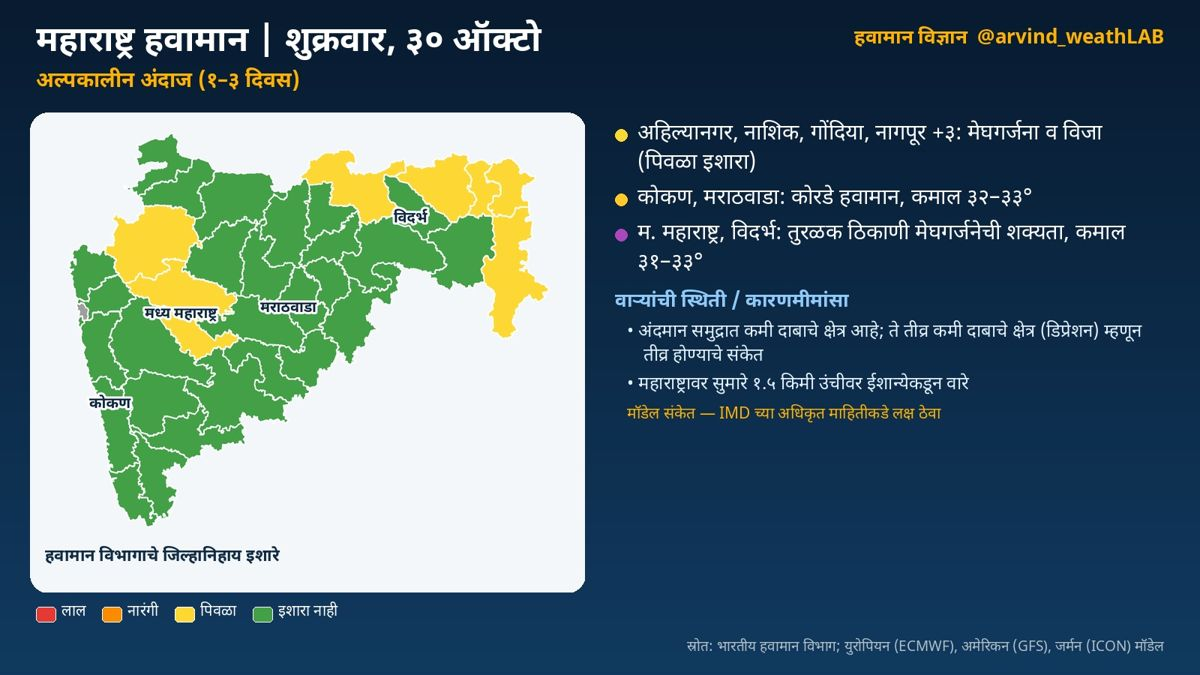
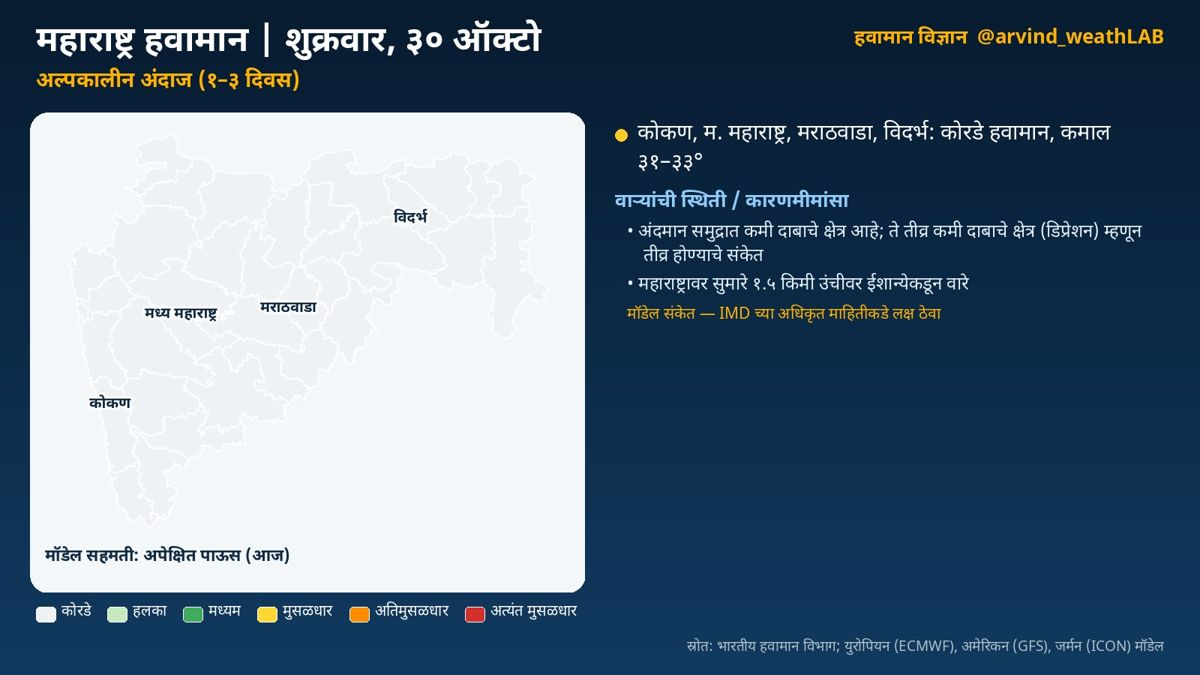
Alert 2026-10-30 (hawaman-vidnyan)

diff --git a/docs/alerts/2026-10-30-hawaman/index.html b/docs/alerts/2026-10-30-hawaman/index.html
@@ -12,11 +12,11 @@
     })();
   </script>
   <title data-mr="महाराष्ट्र हवामान | शुक्रवार, ३० ऑक्टो — हवामान इशारा">महाराष्ट्र हवामान | शुक्रवार, ३० ऑक्टो — Weather alert</title>
-  <meta name="description" content="Yellow alert: महाराष्ट्र हवामान | शुक्रवार, ३० ऑक्टो (30 October 2026)">
+  <meta name="description" content="Information analysis: महाराष्ट्र हवामान | शुक्रवार, ३० ऑक्टो (30 October 2026)">
   <link rel="preconnect" href="https://fonts.googleapis.com">
   <link rel="preconnect" href="https://fonts.gstatic.com" crossorigin>
   <link href="https://fonts.googleapis.com/css2?family=Mukta:wght@400;500;600;700&family=Noto+Serif+Devanagari:wght@600;700&display=swap" rel="stylesheet">
-  <link rel="stylesheet" href="../../static/css/style.css?v=7f417a43">
+  <link rel="stylesheet" href="../../static/css/style.css?v=53f47638">
 </head>
 <body>
   <header class="site-header">
@@ -45,12 +45,12 @@
   <main class="wrap main">
 <article class="article">
   <p class="muted"><a href="../../alerts/index.html"><span class="l-en">← All alerts</span><span class="l-mr" lang="mr">← सर्व इशारे</span></a></p>
-  <div class="alert-banner level-yellow">
-    <span class="badge badge-yellow"><span class="l-en">Yellow alert · Be updated</span><span class="l-mr" lang="mr">पिवळा इशारा · अद्ययावत राहा</span></span>
+  <div class="alert-banner level-info">
+    <span class="badge badge-info"><span class="l-en">Information · analysis</span><span class="l-mr" lang="mr">माहितीपर विश्लेषण</span></span>
     <h1>महाराष्ट्र हवामान | शुक्रवार, ३० ऑक्टो</h1>
     <dl class="alert-facts">
       <div><dt><span class="l-en">Date</span><span class="l-mr" lang="mr">दिनांक</span></dt><dd><time datetime="2026-10-30"><span class="l-en">Friday, 30 October 2026</span><span class="l-mr" lang="mr">शुक्रवार, ३० ऑक्टोबर २०२६</span></time></dd></div>
-<div><dt><span class="l-en">Valid</span><span class="l-mr" lang="mr">वैधता</span></dt><dd><span class="l-en">30 October 2026 — Short-range analysis (1–3 days)</span><span class="l-mr" lang="mr">३० ऑक्टोबर २०२६ — अल्पकालीन विश्लेषण (१–३ दिवस)</span></dd></div><div><dt><span class="l-en">Districts / regions</span><span class="l-mr" lang="mr">जिल्हे/भाग</span></dt><dd><span class="l-en">Ahilyanagar</span><span class="l-mr" lang="mr">अहिल्यानगर</span>, <span class="l-en">Nashik</span><span class="l-mr" lang="mr">नाशिक</span>, <span class="l-en">Gondia</span><span class="l-mr" lang="mr">गोंदिया</span>, <span class="l-en">Nagpur</span><span class="l-mr" lang="mr">नागपूर</span>, <span class="l-en">Amravati</span><span class="l-mr" lang="mr">अमरावती</span>, <span class="l-en">Bhandara</span><span class="l-mr" lang="mr">भंडारा</span>, <span class="l-en">Gadchiroli</span><span class="l-mr" lang="mr">गडचिरोली</span></dd></div><div><dt><span class="l-en">Hazards</span><span class="l-mr" lang="mr">धोके</span></dt><dd><span class="l-en">Thunderstorm &amp; lightning</span><span class="l-mr" lang="mr">मेघगर्जना व विजा</span></dd></div>    </dl>
+<div><dt><span class="l-en">Valid</span><span class="l-mr" lang="mr">वैधता</span></dt><dd><span class="l-en">30 October 2026 — Short-range analysis (1–3 days)</span><span class="l-mr" lang="mr">३० ऑक्टोबर २०२६ — अल्पकालीन विश्लेषण (१–३ दिवस)</span></dd></div><div><dt><span class="l-en">Districts / regions</span><span class="l-mr" lang="mr">जिल्हे/भाग</span></dt><dd><span class="l-en">Konkan</span><span class="l-mr" lang="mr">कोकण</span>, <span class="l-en">Madhya Maharashtra</span><span class="l-mr" lang="mr">मध्य महाराष्ट्र</span>, <span class="l-en">Marathwada</span><span class="l-mr" lang="mr">मराठवाडा</span>, <span class="l-en">Vidarbha</span><span class="l-mr" lang="mr">विदर्भ</span></dd></div>    </dl>
   </div>
   <section class="reel">
     <h2><span class="l-en">Today&#39;s visual analysis</span><span class="l-mr" lang="mr">आजचे दृश्य विश्लेषण</span> <span class="muted"><span class="l-en">(reel slides)</span><span class="l-mr" lang="mr">(रील स्लाइड्स)</span></span></h2>
@@ -100,10 +100,12 @@
     </div>
 </details>  </section>
   <p class="lang-note l-en">This page is written in Marathi.</p><div class="prose" lang="mr"><p><strong>अल्पकालीन विश्लेषण (१–३ दिवस)</strong> · वैयक्तिक विश्लेषणावर आधारित</p>
-<p>🟡 अहिल्यानगर, नाशिक, गोंदिया, नागपूर +३: मेघगर्जना व विजा<br />
-☀ कोकण, मराठवाडा: कोरडे हवामान<br />
-⛈ म. महाराष्ट्र, विदर्भ: तुरळक ठिकाणी मेघगर्जनेची शक्यता<br />
-🌀 अंदमान समुद्रात कमी दाबाचे क्षेत्र आहे</p>
+<p>☀ कोकण: कोरडे हवामान<br />
+☀ म. महाराष्ट्र: कोरडे हवामान<br />
+☀ मराठवाडा: कोरडे हवामान<br />
+☀ विदर्भ: कोरडे हवामान<br />
+🌀 अंदमान समुद्रात कमी दाबाचे क्षेत्र आहे<br />
+🛰 उपग्रह: राज्यावर आकाश बहुतांश निरभ्र</p>
 <p><img src="../../static/images/alerts/2026-10-30/1_card.jpg" alt="अल्पकालीन विश्लेषण (१–३ दिवस)" /></p>
 <h3>हवामानामागचे कारण</h3>
 <p>🌀 वाऱ्यांची स्थिती व कारणमीमांसा:<br />
@@ -111,19 +113,15 @@
 <p>• पूर्व-मध्य अरबी समुद्रात चक्राकार वाऱ्यांची स्थिती आहे; ते कमी दाबाचे क्षेत्र म्हणून तीव्र होण्याचे संकेत; प्रणाली आग्नेयेकडे (आग्नेय अरबी समुद्र) सरकण्याची शक्यता<br />
 • मध्य भारतावर कमी दाबाचे क्षेत्र आहे<br />
 • महाराष्ट्रावर सुमारे १.५ किमी उंचीवर ईशान्येकडून वारे</p>
-<p>🏙 आज शहरांचे कमाल/किमान तापमान (हवामान विभाग):<br />
-मुंबई ३३/२०, रत्नागिरी ३३/२३, पुणे ३५/२२, नाशिक ३३/१९, कोल्हापूर ३२/२०, छ. ३३/१९, नागपूर ३०/२२</p>
 <p>📌 निरीक्षणे:<br />
-🌡 काल सर्वाधिक: मुंबई (कुलाबा) ३६.१°<br />
-❄ नीचांकी: महाबळेश्वर १७.२°<br />
-🛰 उपग्रह: राज्यावर आकाश बहुतांश निरभ्र (कोकण १%, मध्य महाराष्ट्र १%, मराठवाडा ०%, विदर्भ १% ढगाच्छादन)</p>
+🛰 उपग्रह: राज्यावर आकाश बहुतांश निरभ्र (कोकण ०%, मध्य महाराष्ट्र १%, मराठवाडा ०%, विदर्भ ४% ढगाच्छादन)</p>
 <p>ℹ स्रोत: भारतीय हवामान विभाग; युरोपियन (ECMWF), अमेरिकन (GFS), जर्मन (ICON) मॉडेल<br />
 ⚠ हे मॉडेल-आधारित विश्लेषण आहे. अधिकृत इशाऱ्यांसाठी भारतीय हवामान विभाग (IMD) व स्थानिक प्रशासनाच्या सूचना पाहा.</p>
 <p><img src="../../static/images/alerts/2026-10-30/2_circulation_chart.jpg" alt="वाऱ्यांची स्थिती व दाब प्रणाली" /></p>
 <p><img src="../../static/images/alerts/2026-10-30/3_satellite_insat.jpg" alt="वाऱ्यांची स्थिती व दाब प्रणाली" /></p>
 <h2>सविस्तर हवामान विश्लेषण</h2>
 <h3>अल्पकालीन विश्लेषण (१–३ दिवस)</h3>
-<p>नमस्कार! आज शुक्रवार, ३० ऑक्टोबर. पाहूया महाराष्ट्राचे हवामान विश्लेषण. भारतीय हवामान विभागाने अहिल्यानगर, नाशिक, गोंदिया, नागपूर, अमरावती, भंडारा, गडचिरोली जिल्ह्यांसाठी मेघगर्जना व विजा संदर्भात पिवळा इशारा दिला आहे. कोकण: कोरडे हवामान. कमाल तापमान सुमारे ३३ आणि किमान २२ अंश सेल्सिअस. मध्य महाराष्ट्र: तुरळक ठिकाणी मेघगर्जनेची शक्यता. कमाल तापमान सुमारे ३३ आणि किमान २१ अंश सेल्सिअस. मराठवाडा: कोरडे हवामान. कमाल तापमान सुमारे ३२ आणि किमान २० अंश सेल्सिअस. विदर्भ: तुरळक ठिकाणी मेघगर्जनेची शक्यता. कमाल तापमान सुमारे ३१ आणि किमान २१ अंश सेल्सिअस. काल राज्यातील सर्वाधिक तापमान मुंबई (कुलाबा) येथे ३६.१ अंश (सरासरीपेक्षा १.८° जास्त) नोंदले गेले. आता पाहूया हवामानामागचे कारण, म्हणजेच वाऱ्यांची स्थिती. अंदमान समुद्रात कमी दाबाचे क्षेत्र आहे; ते तीव्र कमी दाबाचे क्षेत्र (डिप्रेशन) म्हणून तीव्र होण्याचे संकेत; प्रणाली पश्चिमेकडे (पश्चिम-मध्य बंगालचा उपसागर) सरकण्याची शक्यता (मॉडेल संकेत; IMD च्या अधिकृत माहितीकडे लक्ष ठेवा). पूर्व-मध्य अरबी समुद्रात चक्राकार वाऱ्यांची स्थिती आहे; ते कमी दाबाचे क्षेत्र म्हणून तीव्र होण्याचे संकेत; प्रणाली आग्नेयेकडे (आग्नेय अरबी समुद्र) सरकण्याची शक्यता. मध्य भारतावर कमी दाबाचे क्षेत्र आहे. महाराष्ट्रावर सुमारे १.५ किमी उंचीवर ईशान्येकडून वारे.</p>
+<p>नमस्कार! आज शुक्रवार, ३० ऑक्टोबर. पाहूया महाराष्ट्राचे हवामान विश्लेषण. कोकण: कोरडे हवामान. कमाल तापमान सुमारे ३३ आणि किमान २२ अंश सेल्सिअस. मध्य महाराष्ट्र: कोरडे हवामान. कमाल तापमान सुमारे ३३ आणि किमान २० अंश सेल्सिअस. मराठवाडा: कोरडे हवामान. कमाल तापमान सुमारे ३२ आणि किमान २० अंश सेल्सिअस. विदर्भ: कोरडे हवामान. कमाल तापमान सुमारे ३१ आणि किमान २१ अंश सेल्सिअस. आता पाहूया हवामानामागचे कारण, म्हणजेच वाऱ्यांची स्थिती. अंदमान समुद्रात कमी दाबाचे क्षेत्र आहे; ते तीव्र कमी दाबाचे क्षेत्र (डिप्रेशन) म्हणून तीव्र होण्याचे संकेत; प्रणाली पश्चिमेकडे (पश्चिम-मध्य बंगालचा उपसागर) सरकण्याची शक्यता (मॉडेल संकेत; IMD च्या अधिकृत माहितीकडे लक्ष ठेवा). पूर्व-मध्य अरबी समुद्रात चक्राकार वाऱ्यांची स्थिती आहे; ते कमी दाबाचे क्षेत्र म्हणून तीव्र होण्याचे संकेत; प्रणाली आग्नेयेकडे (आग्नेय अरबी समुद्र) सरकण्याची शक्यता. मध्य भारतावर कमी दाबाचे क्षेत्र आहे. महाराष्ट्रावर सुमारे १.५ किमी उंचीवर ईशान्येकडून वारे.</p>
 <h3>मध्यम कालावधी विश्लेषण (४–१० दिवस)</h3>
 <p>आता पुढील आठवड्याचा, म्हणजे २–८ नोव्हें या काळाचे विश्लेषण. युरोपियन हवामान केंद्राच्या ५१ वेगवेगळ्या संभाव्य मॉडेल-परिणामांवर आधारित. कोकण: पावसाची शक्यता अधिक (२ नोव्हें जास्त). मध्य महाराष्ट्र: पावसाची शक्यता खूप अधिक (२ नोव्हें जास्त). मराठवाडा: पावसाची शक्यता खूप अधिक (२ नोव्हें जास्त). विदर्भ: पावसाची शक्यता अधिक (३ नोव्हें जास्त).  तापमानात विशेष बदल नाही. या काळातील वाऱ्यांची स्थिती: २ नोव्हें रोजी पश्चिम-मध्य बंगालच्या उपसागरात असलेली तीव्र कमी दाबाचे क्षेत्र (डिप्रेशन) पश्चिमेकडे (पूर्व-मध्य अरबी समुद्र) सरकण्याची शक्यता (मॉडेल संकेत; IMD च्या अधिकृत माहितीकडे लक्ष ठेवा). या प्रणालीमुळे राज्यात ढगाळ हवामान व पावसाची शक्यता वाढू शकते. २ नोव्हें रोजी आग्नेय अरबी समुद्रात असलेली कमी दाबाचे क्षेत्र उत्तरेकडे (पूर्व-मध्य अरबी समुद्र) सरकण्याची शक्यता. महाराष्ट्रावर सुमारे १.५ किमी उंचीवर पूर्वेकडून वारे. पुढील काळात हवेच्या मधल्या थरातील बाष्प कमी होत आहे.</p>
 <h3>विस्तारित विश्लेषण (२–४ आठवडे)</h3>

diff --git a/docs/index.html b/docs/index.html
@@ -16,7 +16,7 @@
   <link rel="preconnect" href="https://fonts.googleapis.com">
   <link rel="preconnect" href="https://fonts.gstatic.com" crossorigin>
   <link href="https://fonts.googleapis.com/css2?family=Mukta:wght@400;500;600;700&family=Noto+Serif+Devanagari:wght@600;700&display=swap" rel="stylesheet">
-  <link rel="stylesheet" href="./static/css/style.css?v=7f417a43">
+  <link rel="stylesheet" href="./static/css/style.css?v=53f47638">
 </head>
 <body>
   <header class="site-header">
@@ -45,7 +45,7 @@
   <main class="wrap main">
 <section class="hero">
   <div class="hero-photo">
-    <img src="./static/images/profile.jpg?v=7f417a43" alt="Arvind Pagire" width="200" height="200">
+    <img src="./static/images/profile.jpg?v=53f47638" alt="Arvind Pagire" width="200" height="200">
   </div>
   <div class="hero-text">
     <p class="eyebrow"><span class="l-en">Meteorologist · AI-based weather prediction · Hybrid modelling</span><span class="l-mr" lang="mr">हवामानशास्त्रज्ञ · AI-आधारित हवामान अंदाज · हायब्रिड मॉडेलिंग</span></p>
@@ -71,13 +71,13 @@
     <h2><span class="l-en">Latest weather alert</span><span class="l-mr" lang="mr">ताजा हवामान इशारा</span></h2>
     <a href="./alerts/index.html"><span class="l-en">All alerts →</span><span class="l-mr" lang="mr">सर्व इशारे →</span></a>
   </div>
-    <article class="alert-card level-yellow">
+    <article class="alert-card level-info">
   <div class="alert-card-top">
-    <span class="badge badge-yellow"><span class="l-en">Yellow alert · Be updated</span><span class="l-mr" lang="mr">पिवळा इशारा · अद्ययावत राहा</span></span>
+    <span class="badge badge-info"><span class="l-en">Information · analysis</span><span class="l-mr" lang="mr">माहितीपर विश्लेषण</span></span>
     <time datetime="2026-10-30" class="muted"><span class="l-en">Friday, 30 October 2026</span><span class="l-mr" lang="mr">शुक्रवार, ३० ऑक्टोबर २०२६</span></time>
   </div>
   <h3><a href="./alerts/2026-10-30-hawaman/index.html">महाराष्ट्र हवामान | शुक्रवार, ३० ऑक्टो</a></h3>
-<p class="alert-meta"><strong><span class="l-en">Districts / regions:</span><span class="l-mr" lang="mr">जिल्हे/भाग:</span></strong> <span class="l-en">Ahilyanagar</span><span class="l-mr" lang="mr">अहिल्यानगर</span>, <span class="l-en">Nashik</span><span class="l-mr" lang="mr">नाशिक</span>, <span class="l-en">Gondia</span><span class="l-mr" lang="mr">गोंदिया</span>, <span class="l-en">Nagpur</span><span class="l-mr" lang="mr">नागपूर</span>, <span class="l-en">Amravati</span><span class="l-mr" lang="mr">अमरावती</span>, <span class="l-en">Bhandara</span><span class="l-mr" lang="mr">भंडारा</span>, <span class="l-en">Gadchiroli</span><span class="l-mr" lang="mr">गडचिरोली</span></p><p class="alert-meta"><strong><span class="l-en">Hazards:</span><span class="l-mr" lang="mr">धोके:</span></strong> <span class="l-en">Thunderstorm &amp; lightning</span><span class="l-mr" lang="mr">मेघगर्जना व विजा</span></p><p class="alert-meta"><strong><span class="l-en">Valid:</span><span class="l-mr" lang="mr">वैधता:</span></strong> <span class="l-en">30 October 2026 — Short-range analysis (1–3 days)</span><span class="l-mr" lang="mr">३० ऑक्टोबर २०२६ — अल्पकालीन विश्लेषण (१–३ दिवस)</span></p></article>
+<p class="alert-meta"><strong><span class="l-en">Districts / regions:</span><span class="l-mr" lang="mr">जिल्हे/भाग:</span></strong> <span class="l-en">Konkan</span><span class="l-mr" lang="mr">कोकण</span>, <span class="l-en">Madhya Maharashtra</span><span class="l-mr" lang="mr">मध्य महाराष्ट्र</span>, <span class="l-en">Marathwada</span><span class="l-mr" lang="mr">मराठवाडा</span>, <span class="l-en">Vidarbha</span><span class="l-mr" lang="mr">विदर्भ</span></p><p class="alert-meta"><strong><span class="l-en">Valid:</span><span class="l-mr" lang="mr">वैधता:</span></strong> <span class="l-en">30 October 2026 — Short-range analysis (1–3 days)</span><span class="l-mr" lang="mr">३० ऑक्टोबर २०२६ — अल्पकालीन विश्लेषण (१–३ दिवस)</span></p></article>
     <p class="stale-note muted" data-date="2026-10-30" hidden>
       <span class="l-en">Note: this alert is from 30 October 2026; today&#39;s alert has not been published yet.</span><span class="l-mr" lang="mr">टीप: हा इशारा ३० ऑक्टोबर २०२६ रोजीचा आहे; आजचा इशारा अद्याप प्रसिद्ध झालेला नाही.</span></p>
   <p class="follow"><a href="https://x.com/arvind_weathLAB" rel="noopener" target="_blank">𝕏 <span class="l-en">Daily Maharashtra weather updates:</span><span class="l-mr" lang="mr">दैनंदिन महाराष्ट्र हवामान अपडेट:</span> @arvind_weathLAB</a></p>

diff --git a/docs/alerts/index.html b/docs/alerts/index.html
@@ -16,7 +16,7 @@
   <link rel="preconnect" href="https://fonts.googleapis.com">
   <link rel="preconnect" href="https://fonts.gstatic.com" crossorigin>
   <link href="https://fonts.googleapis.com/css2?family=Mukta:wght@400;500;600;700&family=Noto+Serif+Devanagari:wght@600;700&display=swap" rel="stylesheet">
-  <link rel="stylesheet" href="../static/css/style.css?v=7f417a43">
+  <link rel="stylesheet" href="../static/css/style.css?v=53f47638">
 </head>
 <body>
   <header class="site-header">
@@ -58,13 +58,13 @@
 </details>
 
 <div class="stack">
-<article class="alert-card level-yellow">
+<article class="alert-card level-info">
   <div class="alert-card-top">
-    <span class="badge badge-yellow"><span class="l-en">Yellow alert · Be updated</span><span class="l-mr" lang="mr">पिवळा इशारा · अद्ययावत राहा</span></span>
+    <span class="badge badge-info"><span class="l-en">Information · analysis</span><span class="l-mr" lang="mr">माहितीपर विश्लेषण</span></span>
     <time datetime="2026-10-30" class="muted"><span class="l-en">Friday, 30 October 2026</span><span class="l-mr" lang="mr">शुक्रवार, ३० ऑक्टोबर २०२६</span></time>
   </div>
   <h3><a href="../alerts/2026-10-30-hawaman/index.html">महाराष्ट्र हवामान | शुक्रवार, ३० ऑक्टो</a></h3>
-<p class="alert-meta"><strong><span class="l-en">Districts / regions:</span><span class="l-mr" lang="mr">जिल्हे/भाग:</span></strong> <span class="l-en">Ahilyanagar</span><span class="l-mr" lang="mr">अहिल्यानगर</span>, <span class="l-en">Nashik</span><span class="l-mr" lang="mr">नाशिक</span>, <span class="l-en">Gondia</span><span class="l-mr" lang="mr">गोंदिया</span>, <span class="l-en">Nagpur</span><span class="l-mr" lang="mr">नागपूर</span>, <span class="l-en">Amravati</span><span class="l-mr" lang="mr">अमरावती</span>, <span class="l-en">Bhandara</span><span class="l-mr" lang="mr">भंडारा</span>, <span class="l-en">Gadchiroli</span><span class="l-mr" lang="mr">गडचिरोली</span></p><p class="alert-meta"><strong><span class="l-en">Hazards:</span><span class="l-mr" lang="mr">धोके:</span></strong> <span class="l-en">Thunderstorm &amp; lightning</span><span class="l-mr" lang="mr">मेघगर्जना व विजा</span></p><p class="alert-meta"><strong><span class="l-en">Valid:</span><span class="l-mr" lang="mr">वैधता:</span></strong> <span class="l-en">30 October 2026 — Short-range analysis (1–3 days)</span><span class="l-mr" lang="mr">३० ऑक्टोबर २०२६ — अल्पकालीन विश्लेषण (१–३ दिवस)</span></p></article><article class="alert-card level-info">
+<p class="alert-meta"><strong><span class="l-en">Districts / regions:</span><span class="l-mr" lang="mr">जिल्हे/भाग:</span></strong> <span class="l-en">Konkan</span><span class="l-mr" lang="mr">कोकण</span>, <span class="l-en">Madhya Maharashtra</span><span class="l-mr" lang="mr">मध्य महाराष्ट्र</span>, <span class="l-en">Marathwada</span><span class="l-mr" lang="mr">मराठवाडा</span>, <span class="l-en">Vidarbha</span><span class="l-mr" lang="mr">विदर्भ</span></p><p class="alert-meta"><strong><span class="l-en">Valid:</span><span class="l-mr" lang="mr">वैधता:</span></strong> <span class="l-en">30 October 2026 — Short-range analysis (1–3 days)</span><span class="l-mr" lang="mr">३० ऑक्टोबर २०२६ — अल्पकालीन विश्लेषण (१–३ दिवस)</span></p></article><article class="alert-card level-info">
   <div class="alert-card-top">
     <span class="badge badge-info"><span class="l-en">Information · analysis</span><span class="l-mr" lang="mr">माहितीपर विश्लेषण</span></span>
     <time datetime="2026-10-29" class="muted"><span class="l-en">Thursday, 29 October 2026</span><span class="l-mr" lang="mr">गुरुवार, २९ ऑक्टोबर २०२६</span></time>

diff --git a/docs/alerts/2026-10-25-hawaman/index.html b/docs/alerts/2026-10-25-hawaman/index.html
@@ -16,7 +16,7 @@
   <link rel="preconnect" href="https://fonts.googleapis.com">
   <link rel="preconnect" href="https://fonts.gstatic.com" crossorigin>
   <link href="https://fonts.googleapis.com/css2?family=Mukta:wght@400;500;600;700&family=Noto+Serif+Devanagari:wght@600;700&display=swap" rel="stylesheet">
-  <link rel="stylesheet" href="../../static/css/style.css?v=7f417a43">
+  <link rel="stylesheet" href="../../static/css/style.css?v=53f47638">
 </head>
 <body>
   <header class="site-header">

diff --git a/docs/alerts/2026-10-26-hawaman/index.html b/docs/alerts/2026-10-26-hawaman/index.html
@@ -16,7 +16,7 @@
   <link rel="preconnect" href="https://fonts.googleapis.com">
   <link rel="preconnect" href="https://fonts.gstatic.com" crossorigin>
   <link href="https://fonts.googleapis.com/css2?family=Mukta:wght@400;500;600;700&family=Noto+Serif+Devanagari:wght@600;700&display=swap" rel="stylesheet">
-  <link rel="stylesheet" href="../../static/css/style.css?v=7f417a43">
+  <link rel="stylesheet" href="../../static/css/style.css?v=53f47638">
 </head>
 <body>
   <header class="site-header">

diff --git a/docs/alerts/2026-10-27-hawaman/index.html b/docs/alerts/2026-10-27-hawaman/index.html
@@ -16,7 +16,7 @@
   <link rel="preconnect" href="https://fonts.googleapis.com">
   <link rel="preconnect" href="https://fonts.gstatic.com" crossorigin>
   <link href="https://fonts.googleapis.com/css2?family=Mukta:wght@400;500;600;700&family=Noto+Serif+Devanagari:wght@600;700&display=swap" rel="stylesheet">
-  <link rel="stylesheet" href="../../static/css/style.css?v=7f417a43">
+  <link rel="stylesheet" href="../../static/css/style.css?v=53f47638">
 </head>
 <body>
   <header class="site-header">

diff --git a/docs/alerts/2026-10-28-hawaman/index.html b/docs/alerts/2026-10-28-hawaman/index.html
@@ -16,7 +16,7 @@
   <link rel="preconnect" href="https://fonts.googleapis.com">
   <link rel="preconnect" href="https://fonts.gstatic.com" crossorigin>
   <link href="https://fonts.googleapis.com/css2?family=Mukta:wght@400;500;600;700&family=Noto+Serif+Devanagari:wght@600;700&display=swap" rel="stylesheet">
-  <link rel="stylesheet" href="../../static/css/style.css?v=7f417a43">
+  <link rel="stylesheet" href="../../static/css/style.css?v=53f47638">
 </head>
 <body>
   <header class="site-header">

diff --git a/docs/alerts/2026-10-29-hawaman/index.html b/docs/alerts/2026-10-29-hawaman/index.html
@@ -16,7 +16,7 @@
   <link rel="preconnect" href="https://fonts.googleapis.com">
   <link rel="preconnect" href="https://fonts.gstatic.com" crossorigin>
   <link href="https://fonts.googleapis.com/css2?family=Mukta:wght@400;500;600;700&family=Noto+Serif+Devanagari:wght@600;700&display=swap" rel="stylesheet">
-  <link rel="stylesheet" href="../../static/css/style.css?v=7f417a43">
+  <link rel="stylesheet" href="../../static/css/style.css?v=53f47638">
 </head>
 <body>
   <header class="site-header">

diff --git a/docs/contact/thanks/index.html b/docs/contact/thanks/index.html
@@ -16,7 +16,7 @@
   <link rel="preconnect" href="https://fonts.googleapis.com">
   <link rel="preconnect" href="https://fonts.gstatic.com" crossorigin>
   <link href="https://fonts.googleapis.com/css2?family=Mukta:wght@400;500;600;700&family=Noto+Serif+Devanagari:wght@600;700&display=swap" rel="stylesheet">
-  <link rel="stylesheet" href="../../static/css/style.css?v=7f417a43">
+  <link rel="stylesheet" href="../../static/css/style.css?v=53f47638">
 </head>
 <body>
   <header class="site-header">

diff --git a/docs/about/index.html b/docs/about/index.html
@@ -16,7 +16,7 @@
   <link rel="preconnect" href="https://fonts.googleapis.com">
   <link rel="preconnect" href="https://fonts.gstatic.com" crossorigin>
   <link href="https://fonts.googleapis.com/css2?family=Mukta:wght@400;500;600;700&family=Noto+Serif+Devanagari:wght@600;700&display=swap" rel="stylesheet">
-  <link rel="stylesheet" href="../static/css/style.css?v=7f417a43">
+  <link rel="stylesheet" href="../static/css/style.css?v=53f47638">
 </head>
 <body>
   <header class="site-header">

diff --git a/docs/blog/index.html b/docs/blog/index.html
@@ -16,7 +16,7 @@
   <link rel="preconnect" href="https://fonts.googleapis.com">
   <link rel="preconnect" href="https://fonts.gstatic.com" crossorigin>
   <link href="https://fonts.googleapis.com/css2?family=Mukta:wght@400;500;600;700&family=Noto+Serif+Devanagari:wght@600;700&display=swap" rel="stylesheet">
-  <link rel="stylesheet" href="../static/css/style.css?v=7f417a43">
+  <link rel="stylesheet" href="../static/css/style.css?v=53f47638">
 </head>
 <body>
   <header class="site-header">

diff --git a/docs/contact/index.html b/docs/contact/index.html
@@ -16,7 +16,7 @@
   <link rel="preconnect" href="https://fonts.googleapis.com">
   <link rel="preconnect" href="https://fonts.gstatic.com" crossorigin>
   <link href="https://fonts.googleapis.com/css2?family=Mukta:wght@400;500;600;700&family=Noto+Serif+Devanagari:wght@600;700&display=swap" rel="stylesheet">
-  <link rel="stylesheet" href="../static/css/style.css?v=7f417a43">
+  <link rel="stylesheet" href="../static/css/style.css?v=53f47638">
 </head>
 <body>
   <header class="site-header">
